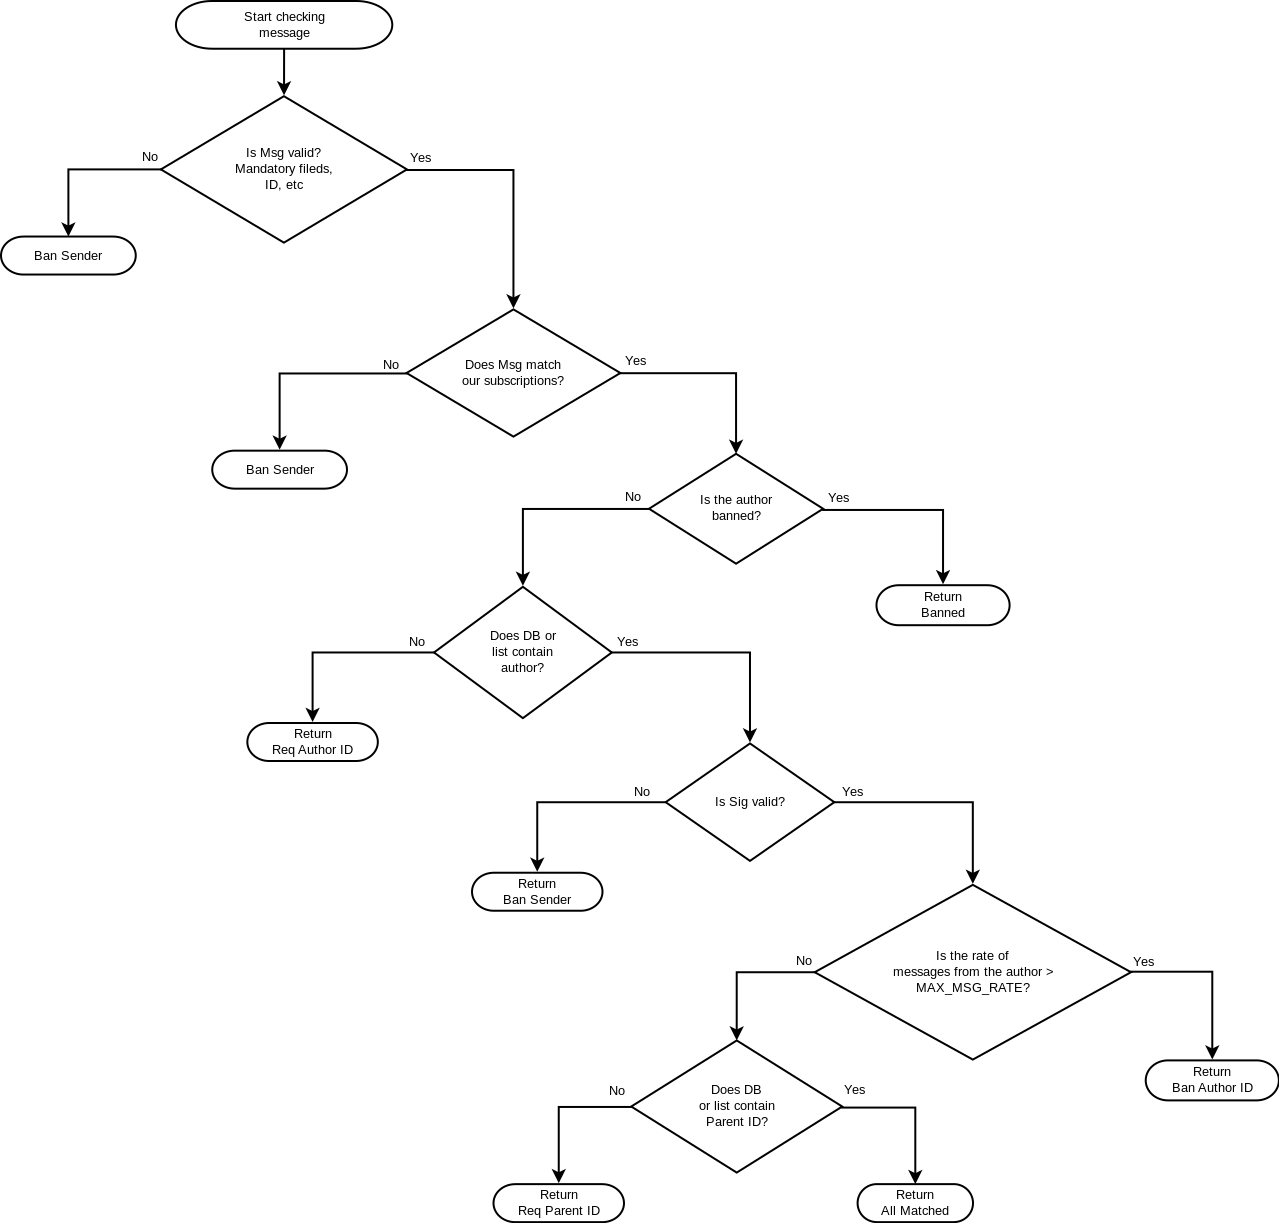
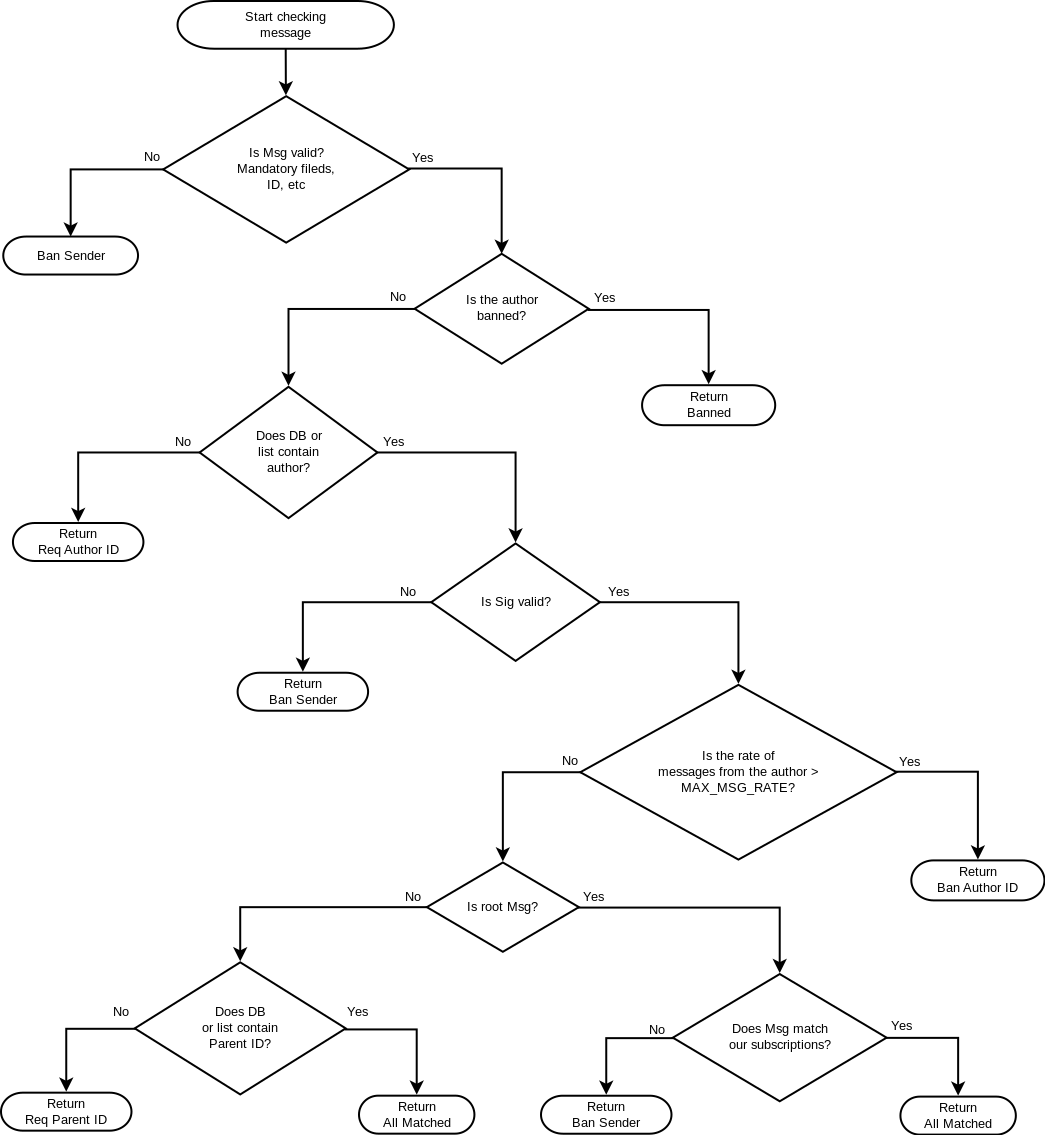
Finished implementing threads.

diff --git a/p2p/peer/state_receiving.go b/p2p/peer/state_receiving.go
@@ -40,6 +40,43 @@ func newStateReceiving(p *Peer, pckt *packet.Packet) *StateReceiving {
 	return &StateReceiving{p, pckt, nil, nil}
 }
 
+func (s *StateReceiving) getPendingEntity(id *entity.ID) entity.Entity {
+	for _, e := range s.pendingEntities {
+		if *e.ID() == *id {
+			return e
+		}
+	}
+	return nil
+}
+
+func (s *StateReceiving) getPendingUser(id *entity.ID) *entity.User {
+	e := s.getPendingEntity(id)
+	if e == nil {
+		return nil
+	}
+	u, ok := (e).(*entity.User)
+	if !ok {
+		log.Warningf("Found entity with requested ID %s, but it's not a user (%T)",
+			id.Shorten(), e)
+		return nil
+	}
+	return u
+}
+
+func (s *StateReceiving) getPendingMessage(id *entity.ID) *entity.Message {
+	e := s.getPendingEntity(id)
+	if e == nil {
+		return nil
+	}
+	m, ok := (e).(*entity.Message)
+	if !ok {
+		log.Warningf("Found entity with requested ID %s, but it's not a message (%T)",
+			id.Shorten(), e)
+		return nil
+	}
+	return m
+}
+
 func (s *StateReceiving) perform() (nextState State, err error) {
 	log.Debugf("Peer %s is performing state %s", s.p.Desc(), s.Name())
 
@@ -235,34 +272,38 @@ func (s *StateReceiving) checkMessage(m *entity.Message) error {
 		log.Infof("Peer %s sent malformed Message entity", s.p.Desc())
 		return &banSenderError{}
 	}
-	if !s.p.owner.Subs.Covers(m.Topic) {
-		log.Infof("Peer %s sent unsolicited Message entity", s.p.Desc())
-		return &banSenderError{}
-	}
 	// TBD: check if m.AuthorID is banned
-	u, err := s.p.storage.GetUser(&m.AuthorID)
-	if err == errors.NoSuchEntity {
-		log.Debugf("Need user ID (%s) - author of the message",
-			m.AuthorID.Shorten(), m.ID().Shorten())
-		return &needIDError{&m.AuthorID}
-	} else if err != nil {
-		log.Fatalf("Unexpected error occurred while getting user from the DB: %v", err)
+	u := s.getPendingUser(&m.AuthorID)
+	if u == nil {
+		var err error
+		u, err = s.p.storage.GetUser(&m.AuthorID)
+		if err == errors.NoSuchEntity {
+			log.Debugf("Need user ID (%s) - author of the message",
+				m.AuthorID.Shorten(), m.ID().Shorten())
+			return &needIDError{&m.AuthorID}
+		} else if err != nil {
+			log.Fatalf("Unexpected error occurred while getting user from the DB: %v", err)
+		}
 	}
 	if !m.IsSigValid(&u.PubKey) {
 		log.Infof("Peer %s sent Message entity with invalid sig", s.p.Desc())
 		return &banSenderError{}
 	}
 	// TBD: check rate of messages posted by u
-	if m.ParentID != entity.ZeroID {
+	if m.ParentID == entity.ZeroID {
+		if !s.p.owner.Subs.Covers(m.Topic) {
+			log.Infof("Peer %s sent unsolicited Message entity", s.p.Desc())
+			return &banSenderError{}
+		}
+	} else {
 		has, err := s.p.storage.HasMessage(&m.ParentID)
 		if err != nil {
 			log.Fatalf("Unexpected error while looking for a message in the DB: %v", err)
 		}
-		if !has {
+		if !has && s.getPendingMessage(&m.ParentID) == nil {
 			return &needIDError{&m.ParentID}
 		}
 	}
-
 	return nil
 }
 

diff --git a/sqlite/database.go b/sqlite/database.go
@@ -248,7 +248,7 @@ func (d *Database) GetMessage(eid *entity.ID) (*entity.Message, error) {
 	var encodedSig []byte
 	var rawAuthID []byte
 	var rawParID []byte
-	var topicStr string
+	var topicStr sql.NullString
 	query := `
 	SELECT Message.Subject,
 	       Message.Content,
@@ -258,8 +258,8 @@ func (d *Database) GetMessage(eid *entity.ID) (*entity.Message, error) {
 	       Message.Signature,
 	       GROUP_CONCAT(Tag.Name)
 	FROM Message
-	INNER JOIN Message_Tag on Message.Id=Message_Tag.Message_Id
-	INNER JOIN Tag on Tag.Id=Message_Tag.Tag_Id
+	LEFT JOIN Message_Tag on Message.Id=Message_Tag.Message_Id
+	LEFT JOIN Tag on Tag.Id=Message_Tag.Tag_Id
 	WHERE Message.Id=?
 	GROUP BY Message.Id
 	`
@@ -295,9 +295,12 @@ func (d *Database) GetMessage(eid *entity.ID) (*entity.Message, error) {
 		log.Errorf("Can't parse signature fetched from DB: %v", err)
 		return nil, errors.Parsing
 	}
-	topic, err := subs.NewTopic(topicStr)
-	if err != nil {
-		log.Fatalf("The topic '%s' fetched from DB is invalid", topicStr)
+	var topic subs.Topic
+	if topicStr.Valid {
+		topic, err = subs.NewTopic(topicStr.String)
+		if err != nil {
+			log.Fatalf("The topic '%s' fetched from DB is invalid", topicStr.String)
+		}
 	}
 	m, err := entity.NewMessage(eid, subj, text, &authID, &parID, wrdate, sig, topic)
 	if err != nil {

diff --git a/storage/storage.go b/storage/storage.go
@@ -91,19 +91,32 @@ func (s *Storage) HasMessage(id *entity.ID) (bool, error) {
 	return s.db.HasMessage(id)
 }
 
-func (s *Storage) GetEntity(eid *entity.ID) (entity.Entity, error) {
-	m, err := s.db.GetMessage(eid)
-	if err == errors.NoSuchEntity {
-		u, err := s.db.GetUser(eid)
+func (s *Storage) GetRoot(m *entity.Message) (*entity.Message, error) {
+	for m.IsReply() {
+		p, err := s.db.GetMessage(&m.ParentID)
 		if err != nil {
 			return nil, err
-		} else {
+		}
+		m = p
+	}
+	return m, nil
+}
+
+func (s *Storage) GetEntity(eid *entity.ID) (entity.Entity, error) {
+	m, err := s.db.GetMessage(eid)
+	if err == nil {
+		return (entity.Entity)(m), nil
+	}
+	if err == errors.NoSuchEntity {
+		u, err := s.db.GetUser(eid)
+		if err == nil {
 			return (entity.Entity)(u), nil
+		} else {
+			return nil, err
 		}
 	} else {
 		return nil, err
 	}
-	return (entity.Entity)(m), nil
 }
 
 func (s *Storage) PutEntity(ent entity.Entity, sender chan<- entity.Entity) error {

diff --git a/p2p/peer/peer.go b/p2p/peer/peer.go
@@ -154,14 +154,21 @@ func (p *Peer) ShortID() string {
 	}
 }
 
-func (p *Peer) isInterestedInEntity(e entity.Entity) bool {
-	switch e.Type() {
-	case entity.TypeMessage:
-		m, ok := (e).(*entity.Message)
-		if !ok {
-			log.Fatal("BUG: entity type does not match Type value")
+func (p *Peer) isInterestedInEntity(ent entity.Entity) bool {
+	switch e := ent.(type) {
+	case *entity.Message:
+		var t subs.Topic
+		if e.IsReply() {
+			r, err := p.storage.GetRoot(e)
+			if err != nil {
+				log.Fatalf("Got an error while fetching root of %s from DB: %v",
+					e.Desc(), err)
+			}
+			t = r.Topic
+		} else {
+			t = e.Topic
 		}
-		return p.Subs.Covers(m.Topic)
+		return p.Subs.Covers(t)
 	default:
 		log.Fatal("BUG: nothing but messages should be here yet.")
 	}

diff --git a/cmd/dscuss-cli/main.go b/cmd/dscuss-cli/main.go
@@ -341,6 +341,7 @@ func (tp *ThreadPrinter) Handle(n *thread.Node) bool {
 	tp.c.Printf("%s%s\n", tp.composeIndentation(n), m.Text)
 	tp.c.Printf("%sby %s, %s\n",
 		tp.composeIndentation(n), m.AuthorID.Shorten(), m.DateWritten.Format(time.RFC3339))
+	tp.c.Printf("%sID: %s\n", tp.composeIndentation(n), m.ID().String())
 	return true
 }
 
@@ -368,7 +369,6 @@ func doListThread(c *ishell.Context) {
 		c.Println("Can't list thread: " + err.Error() + ".")
 		return
 	}
-
 	tp := ThreadPrinter{c}
 	tvis := thread.NewPreOrderVisitor(&tp)
 	t.Traverse(tvis)

diff --git a/entity/message.go b/entity/message.go
@@ -159,6 +159,10 @@ func (m *Message) IsValid(pubKey *crypto.PublicKey) bool {
 	return m.IsUnsignedPartValid() && m.IsSigValid(pubKey)
 }
 
+func (m *Message) IsReply() bool {
+	return m.ParentID != ZeroID
+}
+
 func newMessageContent(
 	subject string,
 	text string,

diff --git a/thread/thread.go b/thread/thread.go
@@ -41,7 +41,7 @@ func (n *Node) AddReply(m *entity.Message) *Node {
 func (n *Node) Depth() int {
 	depth := 0
 	for tmp := n; tmp.Parent != nil; depth++ {
-		tmp = n.Parent
+		tmp = tmp.Parent
 	}
 	return depth
 }
